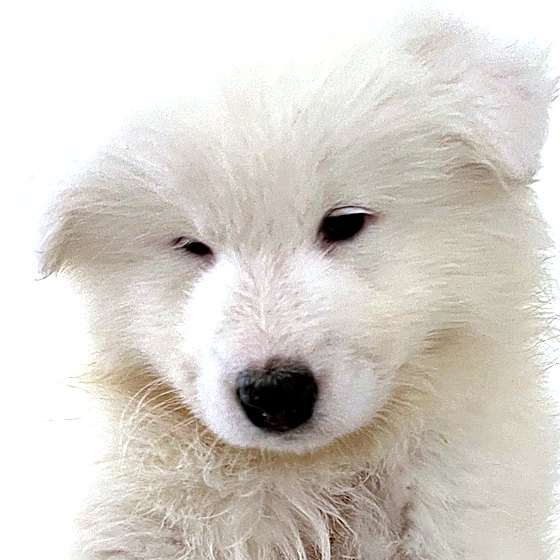
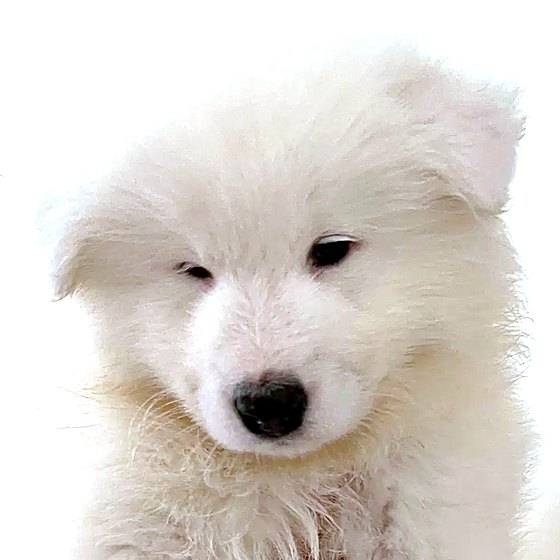
Add files via upload

Changed region(s): [[0.0607, 0.0304, 1.0, 1.0], [0.3036, 0.2429, 0.5161, 0.3946], [0.7893, 0.85, 0.8196, 0.9107]]

diff --git a/index.html b/index.html
@@ -428,6 +428,19 @@
   .ab-phone .g{display:grid; grid-template-columns:repeat(3,1fr); gap:3px; width:100%; margin-top:6px;}
   .ab-phone .g i{aspect-ratio:1; border-radius:4px; background:linear-gradient(135deg,var(--lavender),var(--pink-soft));}
   .ab-phone .g i:nth-child(3n+2){background:linear-gradient(135deg,var(--pink-soft),var(--purple-soft));}
+  .ab-gal{display:grid; grid-template-columns:repeat(3,1fr); gap:20px;}
+  .ab-shot{background:#fff; border-radius:var(--radius-lg); overflow:hidden; box-shadow:var(--shadow);}
+  .ab-shot .img{position:relative; aspect-ratio:1; overflow:hidden; cursor:zoom-in;}
+  .ab-shot .img img{width:100%; height:100%; object-fit:cover; display:block; transition:transform .5s ease;}
+  .ab-shot:hover .img img{transform:scale(1.04);}
+  .ab-shot .tag{position:absolute; left:14px; top:14px; background:rgba(255,255,255,.92); color:var(--purple-deep); font-weight:700; font-size:12.5px; padding:6px 12px; border-radius:999px; box-shadow:var(--shadow-sm);}
+  .ab-shot .cap{padding:16px 18px 18px;}
+  .ab-shot .cap b{font-family:'Baloo 2'; font-size:19px; color:var(--purple-deep); display:block; line-height:1.2;}
+  .ab-shot .cap small{display:block; color:var(--ink-soft); font-size:12.5px; margin:4px 0 10px;}
+  .ab-toys{display:flex; flex-wrap:wrap; gap:8px;}
+  .ab-toy{display:flex; align-items:center; gap:7px; background:var(--cream); border:1.5px solid var(--lavender); border-radius:999px; padding:4px 12px 4px 4px; font:inherit; font-size:12.5px; font-weight:600; color:var(--purple-deep); cursor:pointer; transition:.15s;}
+  .ab-toy:hover{border-color:var(--purple-soft); background:#fff;}
+  .ab-toy img{width:30px; height:30px; border-radius:50%; object-fit:cover; background:#fff;}
   .ab-teaser{padding:10px 0 40px;}
   .ab-teaser-card{display:flex; align-items:center; gap:18px; background:#fff; border-radius:var(--radius-lg); padding:18px 22px; box-shadow:var(--shadow); cursor:pointer; border:2px solid var(--lavender);}
   .ab-teaser-card img{width:64px; height:64px; border-radius:50%; flex:none; border:3px solid var(--lavender);}
@@ -444,6 +457,8 @@
     .ab-logo{min-height:260px; order:-1;} .ab-logo .blob{width:240px; height:240px;} .ab-logo .ring{width:190px; height:190px;}
     .ab-pets{grid-template-columns:repeat(2,1fr); gap:12px;} .ab-pet{height:250px;} .ab-pet .av{width:96px; height:96px; font-size:32px;} .ab-pet:last-child:nth-child(odd){grid-column:1/-1; width:calc(50% - 6px); justify-self:center;}
     .ab-steps{grid-template-columns:1fr 1fr;}
+    .ab-gal{display:flex; overflow-x:auto; scroll-snap-type:x mandatory; gap:14px; margin:0 -28px; padding:4px 28px 18px; -webkit-overflow-scrolling:touch;}
+    .ab-gal .ab-shot{flex:0 0 78%; scroll-snap-align:center;}
     .ab-sec{padding:44px 0;}
     .ab-quiz{padding:22px 16px; border-radius:26px;}
     .ab-res{grid-template-columns:1fr; text-align:center;} .ab-res .thumbs{justify-content:center; grid-template-columns:repeat(4,56px);} .ab-res .thumbs img,.ab-res .thumbs span{width:56px; height:56px;}
@@ -1238,6 +1253,13 @@
 
   <section class="ab-sec">
     <div class="wrap">
+      <div class="ab-head rv"><span class="ab-kicker">Álbum de família</span><h2>Quando elas eram filhotes 🍼</h2><p>Hoje já cresceram, mas a gente não resiste a essas fotos. Toque nos brinquedos para ver na loja.</p></div>
+      <div class="ab-gal" id="abGal"></div>
+    </div>
+  </section>
+
+  <section class="ab-sec alt">
+    <div class="wrap">
       <div class="ab-head rv"><span class="ab-kicker">Do nosso jeito</span><h2>Como um produto chega até você</h2></div>
       <div class="ab-steps" id="abSteps">
         <button class="ab-step rv on" onclick="abStep(this)"><div class="n">🔎</div><h3>Curadoria</h3><p>Só entram marcas reconhecidas lá fora, como KONG, Benebone e LickiMat, sempre originais.</p></button>
@@ -1248,7 +1270,7 @@
     </div>
   </section>
 
-  <section class="ab-sec alt">
+  <section class="ab-sec">
     <div class="wrap">
       <div class="ab-head rv"><span class="ab-kicker">Quiz rapidinho</span><h2>Qual kit combina com o seu pet?</h2><p>Escolha o que mais parece com ele.</p></div>
       <div class="ab-quiz rv">
@@ -2542,6 +2564,12 @@ const ABOUT_PETS = [
   { name:'Alaska', trait:'A comilona', role:'Não divide a comida e ainda rouba a das filhas. Nenhum petisco entra na loja sem passar por ela.', photo:'pet-alaska.jpg' },
   { name:'Aslan',  trait:'O mimadinho', role:'O Aslinho, filhinho da mamãe, quer tudo só para ele: brinquedo bom tem que ser exclusivo.', photo:'pet-aslan.jpg' }
 ];
+// Álbum: fotos de quando eram filhotes + os brinquedos da loja que combinam com cada uma
+const ABOUT_ALBUM = [
+  { photo:'filhote-1.jpg', tag:'🌿 Primeiro passeio', title:'Pura fofura no tronco', sub:'Os primeiros brinquedos do filhote', toys:[76,19,17] },
+  { photo:'filhote-2.jpg', tag:'🐾 Exploradora', title:'Energia desde pequenininha', sub:'Para gastar a energia do jeito certo', toys:[3,12] },
+  { photo:'filhote-3.jpg', tag:'😴 Hora da soneca', title:'De barriguinha para cima', sub:'Pelúcias para abraçar na soneca', toys:[13,7] }
+];
 // Quiz: cada resposta aponta para um kit (se o kit não existir mais, leva para a loja)
 const ABOUT_QUIZ = [
   { label:'🍼 É filhote', kit:9001 },
@@ -2563,6 +2591,17 @@ function renderAbout(){
       </div></button>`).join('');
     pets.dataset.done = '1';
   }
+  const gal = document.getElementById('abGal');
+  if(gal){
+    gal.innerHTML = ABOUT_ALBUM.map((a, i) => {
+      const toys = a.toys.map(id => familyById(id)).filter(Boolean).map(f => {
+        const img = f.photo && PRODUCT_IMAGES[f.photo] ? `<img src="${PRODUCT_IMAGES[f.photo]}" alt="">` : '<span style="width:30px;text-align:center">🐾</span>';
+        return `<button class="ab-toy" onclick="openProduct(${f.id})">${img}${abEsc(f.name.replace(/ \((AST\d)\)$/, ''))}</button>`;
+      }).join('');
+      return `<div class="ab-shot rv"><div class="img" onclick="abAlbumZoom(${i})"><img src="${abEsc(a.photo)}" alt="${abEsc(a.title)}" loading="lazy"><span class="tag">${abEsc(a.tag)}</span></div>
+        <div class="cap"><b>${abEsc(a.title)}</b><small>${abEsc(a.sub)}</small><div class="ab-toys">${toys}</div></div></div>`;
+    }).join('');
+  }
   const opts = document.getElementById('abOpts');
   if(opts && !opts.dataset.done){
     opts.innerHTML = ABOUT_QUIZ.map((q, i) => `<button class="ab-opt" onclick="abQuiz(${i}, this)">${abEsc(q.label)}</button>`).join('');
@@ -2577,6 +2616,10 @@ function renderAbout(){
     tr.innerHTML = top.map(chip).join('') + top.map(chip).join(''); // duas vezes: a faixa gira sem emenda
   }
   abReveal();
+}
+function abAlbumZoom(i){
+  if(typeof openGallery !== 'function') return;
+  openGallery(ABOUT_ALBUM.map(a => ({ src: a.photo, name: a.title, sub: a.tag })), i);
 }
 function abStep(el){ document.querySelectorAll('#abSteps .ab-step').forEach(x => x.classList.toggle('on', x === el)); }
 function abQuiz(i, btn){

diff --git a/trocas-e-devolucoes.html b/trocas-e-devolucoes.html
@@ -1,7 +1,8 @@
 <!DOCTYPE html>
-<html lang="pt-BR">
+<html lang="pt-BR" translate="no">
 <head>
 <meta charset="UTF-8">
+<meta name="google" content="notranslate">
 <meta name="viewport" content="width=device-width, initial-scale=1.0">
 <title>Trocas e devoluções — Bielyy Store</title>
 <meta name="description" content="Política de trocas e devoluções da Bielyy Store: 7 dias com o produto fechado e como proceder em caso de defeito de fabricação.">

diff --git a/pedido.html b/pedido.html
@@ -1,7 +1,8 @@
 <!DOCTYPE html>
-<html lang="pt-BR">
+<html lang="pt-BR" translate="no">
 <head>
 <meta charset="UTF-8">
+<meta name="google" content="notranslate">
 <meta name="viewport" content="width=device-width, initial-scale=1.0">
 <title>Acompanhar pedido — Bielyy Store</title>
 <meta name="robots" content="noindex">
